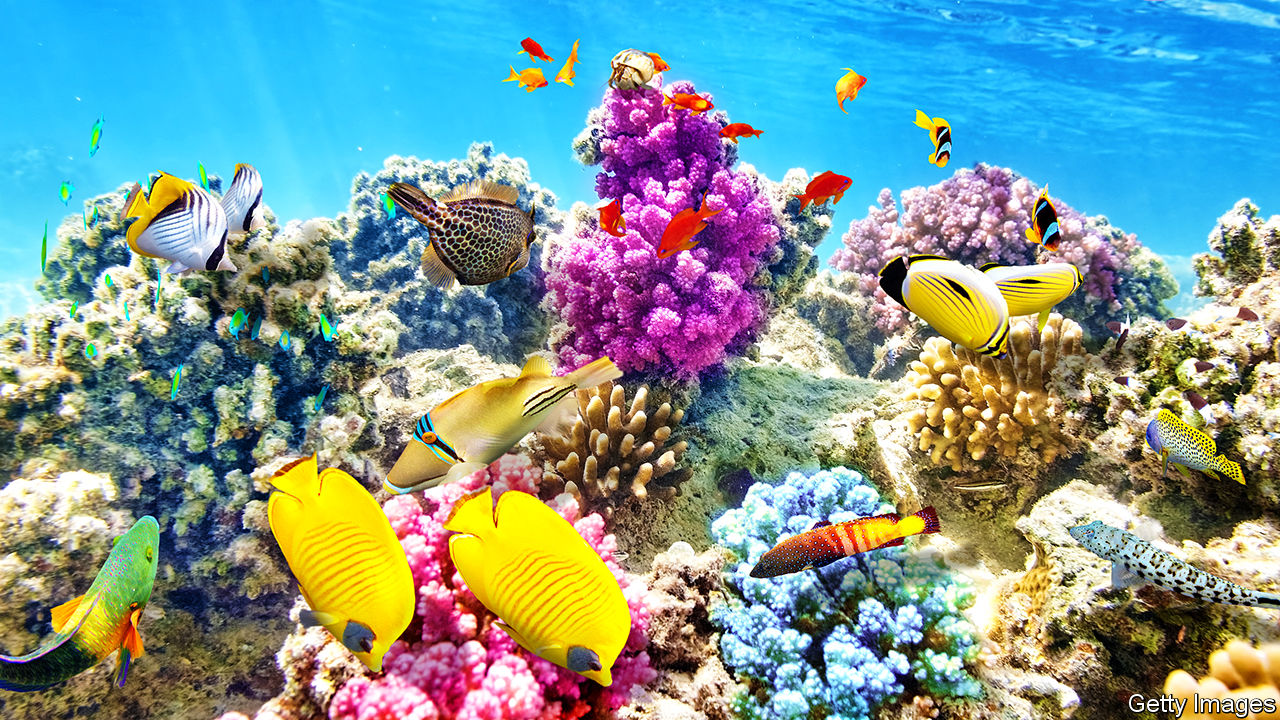
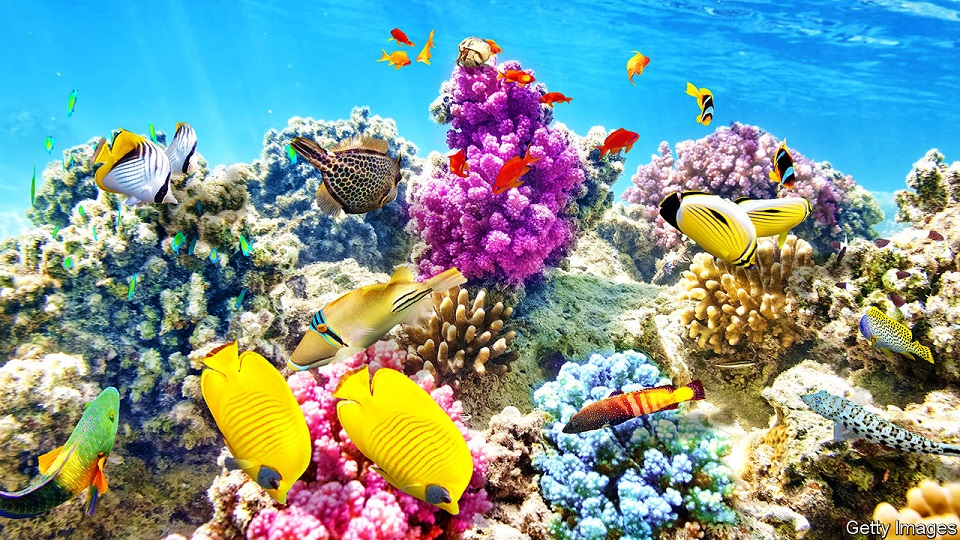
resizepic

diff --git a/src/components/Projects.js b/src/components/Projects.js
@@ -80,7 +80,7 @@ const Projects = props => {
                     <br></br>
                     <br></br>
                     <br></br>
-                        <img src={`${process.env.PUBLIC_URL}/images/ocean.jpg`} alt="a picture of the ocean" />
+                        <img src={`${process.env.PUBLIC_URL}/images/Ocean.jpg`} alt="a picture of the ocean" />
                     </h2>
                     <h3>
                         <br></br>
